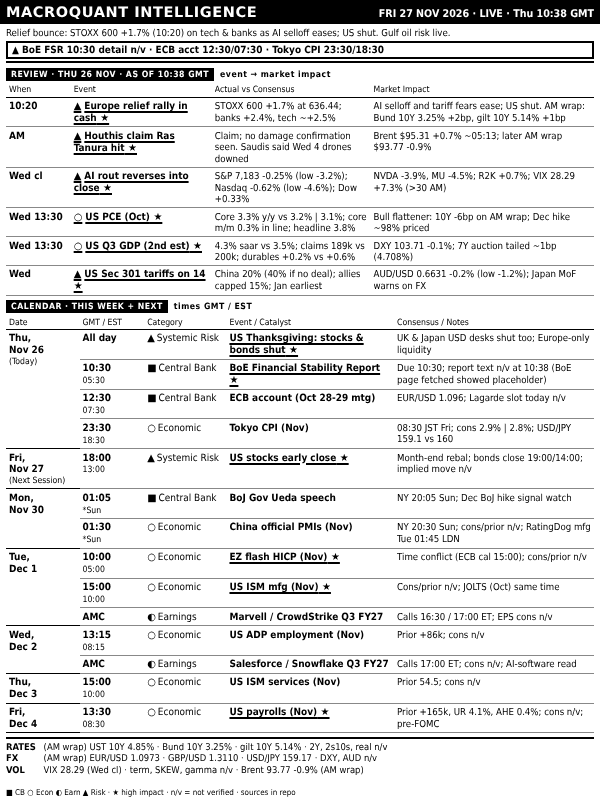
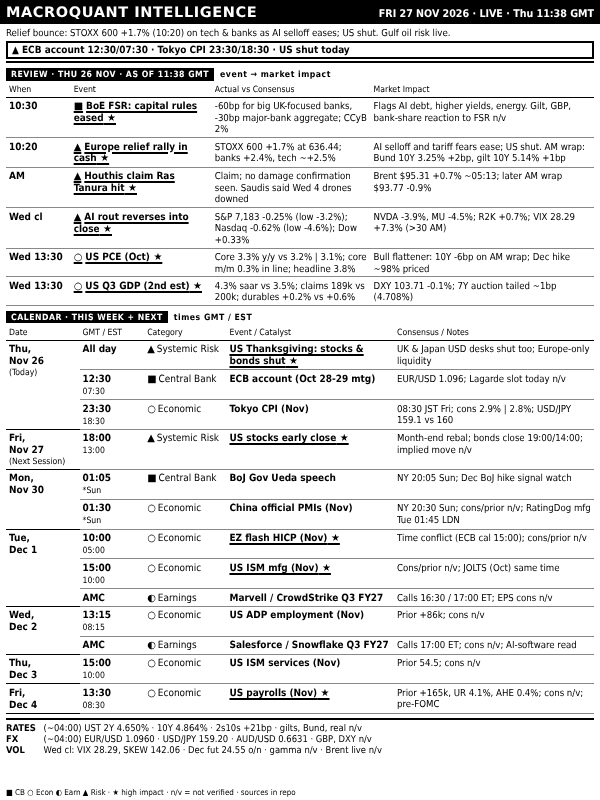
dashboard: FRI 27 NOV 2026 LIVE 11:38
Claude-Session: https://claude.ai/code/session_016SJqa7BD48d3tC7E6ek43r

diff --git a/out/dashboard.html b/out/dashboard.html
@@ -38,12 +38,12 @@ table.bd{border-collapse:collapse;width:100%;table-layout:fixed;margin-top:1px}
 </style></head><body>
 <div id="root">
  <div class="hdr"><span class="t">MACROQUANT INTELLIGENCE</span>
-  <span class="r">FRI 27 NOV 2026 · LIVE · Thu 10:38 GMT</span></div>
- <div class="ban"><div class="rg">Relief bounce: STOXX 600 +1.7% (10:20) on tech &amp; banks as AI selloff eases; US shut. Gulf oil risk live.</div><div class="al">▲ BoE FSR 10:30 detail n/v · ECB acct 12:30/07:30 · Tokyo CPI 23:30/18:30</div></div>
- <div class="sl"><span>REVIEW · THU 26 NOV · AS OF 10:38 GMT</span>event → market impact</div><table class="bd rv"><colgroup><col style="width:11%"><col style="width:24%"><col style="width:27%"><col></colgroup><tr><th>When</th><th>Event</th><th>Actual vs Consensus</th><th>Market Impact</th></tr><tr class="h"><td class="tm"><b>10:20</b></td><td class="ev"><i>▲</i>Europe relief rally in cash</td><td class="ac">STOXX 600 +1.7% at 636.44; banks +2.4%, tech ~+2.5%</td><td class="nt">AI selloff and tariff fears ease; US shut. AM wrap: Bund 10Y 3.25% +2bp, gilt 10Y 5.14% +1bp</td></tr><tr class="h"><td class="tm"><b>AM</b></td><td class="ev"><i>▲</i>Houthis claim Ras Tanura hit</td><td class="ac">Claim; no damage confirmation seen. Saudis said Wed 4 drones downed</td><td class="nt">Brent $95.31 +0.7% ~05:13; later AM wrap $93.77 -0.9%</td></tr><tr class="h"><td class="tm"><b>Wed cl</b></td><td class="ev"><i>▲</i>AI rout reverses into close</td><td class="ac">S&amp;P 7,183 -0.25% (low -3.2%); Nasdaq -0.62% (low -4.6%); Dow +0.33%</td><td class="nt">NVDA -3.9%, MU -4.5%; R2K +0.7%; VIX 28.29 +7.3% (&gt;30 AM)</td></tr><tr class="h"><td class="tm"><b>Wed 13:30</b></td><td class="ev"><i>○</i>US PCE (Oct)</td><td class="ac">Core 3.3% y/y vs 3.2% | 3.1%; core m/m 0.3% in line; headline 3.8%</td><td class="nt">Bull flattener: 10Y -6bp on AM wrap; Dec hike ~98% priced</td></tr><tr class="h"><td class="tm"><b>Wed 13:30</b></td><td class="ev"><i>○</i>US Q3 GDP (2nd est)</td><td class="ac">4.3% saar vs 3.5%; claims 189k vs 200k; durables +0.2% vs +0.6%</td><td class="nt">DXY 103.71 -0.1%; 7Y auction tailed ~1bp (4.708%)</td></tr><tr class="h"><td class="tm"><b>Wed</b></td><td class="ev"><i>▲</i>US Sec 301 tariffs on 14</td><td class="ac">China 20% (40% if no deal); allies capped 15%; Jan earliest</td><td class="nt">AUD/USD 0.6631 -0.2% (low -1.2%); Japan MoF warns on FX</td></tr></table>
+  <span class="r">FRI 27 NOV 2026 · LIVE · Thu 11:38 GMT</span></div>
+ <div class="ban"><div class="rg">Relief bounce: STOXX 600 +1.7% (10:20) on tech &amp; banks as AI selloff eases; US shut. Gulf oil risk live.</div><div class="al">▲ ECB account 12:30/07:30 · Tokyo CPI 23:30/18:30 · US shut today</div></div>
+ <div class="sl"><span>REVIEW · THU 26 NOV · AS OF 11:38 GMT</span>event → market impact</div><table class="bd rv"><colgroup><col style="width:11%"><col style="width:24%"><col style="width:27%"><col></colgroup><tr><th>When</th><th>Event</th><th>Actual vs Consensus</th><th>Market Impact</th></tr><tr class="h"><td class="tm"><b>10:30</b></td><td class="ev"><i>■</i>BoE FSR: capital rules eased</td><td class="ac">-60bp for big UK-focused banks, -30bp major-bank aggregate; CCyB 2%</td><td class="nt">Flags AI debt, higher yields, energy. Gilt, GBP, bank-share reaction to FSR n/v</td></tr><tr class="h"><td class="tm"><b>10:20</b></td><td class="ev"><i>▲</i>Europe relief rally in cash</td><td class="ac">STOXX 600 +1.7% at 636.44; banks +2.4%, tech ~+2.5%</td><td class="nt">AI selloff and tariff fears ease; US shut. AM wrap: Bund 10Y 3.25% +2bp, gilt 10Y 5.14% +1bp</td></tr><tr class="h"><td class="tm"><b>AM</b></td><td class="ev"><i>▲</i>Houthis claim Ras Tanura hit</td><td class="ac">Claim; no damage confirmation seen. Saudis said Wed 4 drones downed</td><td class="nt">Brent $95.31 +0.7% ~05:13; later AM wrap $93.77 -0.9%</td></tr><tr class="h"><td class="tm"><b>Wed cl</b></td><td class="ev"><i>▲</i>AI rout reverses into close</td><td class="ac">S&amp;P 7,183 -0.25% (low -3.2%); Nasdaq -0.62% (low -4.6%); Dow +0.33%</td><td class="nt">NVDA -3.9%, MU -4.5%; R2K +0.7%; VIX 28.29 +7.3% (&gt;30 AM)</td></tr><tr class="h"><td class="tm"><b>Wed 13:30</b></td><td class="ev"><i>○</i>US PCE (Oct)</td><td class="ac">Core 3.3% y/y vs 3.2% | 3.1%; core m/m 0.3% in line; headline 3.8%</td><td class="nt">Bull flattener: 10Y -6bp on AM wrap; Dec hike ~98% priced</td></tr><tr class="h"><td class="tm"><b>Wed 13:30</b></td><td class="ev"><i>○</i>US Q3 GDP (2nd est)</td><td class="ac">4.3% saar vs 3.5%; claims 189k vs 200k; durables +0.2% vs +0.6%</td><td class="nt">DXY 103.71 -0.1%; 7Y auction tailed ~1bp (4.708%)</td></tr></table>
  <div class="sl"><span>CALENDAR · THIS WEEK + NEXT</span>times GMT / EST</div>
- <table class="bd"><colgroup><col style="width:12.5%"><col style="width:11%"><col style="width:14%"><col style="width:28.5%"><col></colgroup><tr><th>Date</th><th>GMT / EST</th><th>Category</th><th>Event / Catalyst</th><th>Consensus / Notes</th></tr><tr class="g0 h"><td class="dt" rowspan="4">Thu,<br>Nov&nbsp;26<span class="tg">(Today)</span></td><td class="tm"><b>All day</b></td><td class="ct"><i>▲</i>Systemic Risk</td><td class="ev">US Thanksgiving: stocks &amp; bonds shut</td><td class="nt">UK &amp; Japan USD desks shut too; Europe-only liquidity</td></tr><tr class="h"><td class="tm"><b>10:30</b><span>05:30</span></td><td class="ct"><i>■</i>Central Bank</td><td class="ev">BoE Financial Stability Report</td><td class="nt">Due 10:30; report text n/v at 10:38 (BoE page fetched showed placeholder)</td></tr><tr class=""><td class="tm"><b>12:30</b><span>07:30</span></td><td class="ct"><i>■</i>Central Bank</td><td class="ev">ECB account (Oct 28-29 mtg)</td><td class="nt">EUR/USD 1.096; Lagarde slot today n/v</td></tr><tr class=""><td class="tm"><b>23:30</b><span>18:30</span></td><td class="ct"><i>○</i>Economic</td><td class="ev">Tokyo CPI (Nov)</td><td class="nt">08:30 JST Fri; cons 2.9% | 2.8%; USD/JPY 159.1 vs 160</td></tr><tr class="g0 h"><td class="dt" rowspan="1">Fri,<br>Nov&nbsp;27<span class="tg">(Next Session)</span></td><td class="tm"><b>18:00</b><span>13:00</span></td><td class="ct"><i>▲</i>Systemic Risk</td><td class="ev">US stocks early close</td><td class="nt">Month-end rebal; bonds close 19:00/14:00; implied move n/v</td></tr><tr class="g0"><td class="dt" rowspan="2">Mon,<br>Nov&nbsp;30</td><td class="tm"><b>01:05</b><span>*Sun</span></td><td class="ct"><i>■</i>Central Bank</td><td class="ev">BoJ Gov Ueda speech</td><td class="nt">NY 20:05 Sun; Dec BoJ hike signal watch</td></tr><tr class=""><td class="tm"><b>01:30</b><span>*Sun</span></td><td class="ct"><i>○</i>Economic</td><td class="ev">China official PMIs (Nov)</td><td class="nt">NY 20:30 Sun; cons/prior n/v; RatingDog mfg Tue 01:45 LDN</td></tr><tr class="g0 h"><td class="dt" rowspan="3">Tue,<br>Dec&nbsp;1</td><td class="tm"><b>10:00</b><span>05:00</span></td><td class="ct"><i>○</i>Economic</td><td class="ev">EZ flash HICP (Nov)</td><td class="nt">Time conflict (ECB cal 15:00); cons/prior n/v</td></tr><tr class="h"><td class="tm"><b>15:00</b><span>10:00</span></td><td class="ct"><i>○</i>Economic</td><td class="ev">US ISM mfg (Nov)</td><td class="nt">Cons/prior n/v; JOLTS (Oct) same time</td></tr><tr class=""><td class="tm"><b>AMC</b></td><td class="ct"><i>◐</i>Earnings</td><td class="ev">Marvell / CrowdStrike Q3 FY27</td><td class="nt">Calls 16:30 / 17:00 ET; EPS cons n/v</td></tr><tr class="g0"><td class="dt" rowspan="2">Wed,<br>Dec&nbsp;2</td><td class="tm"><b>13:15</b><span>08:15</span></td><td class="ct"><i>○</i>Economic</td><td class="ev">US ADP employment (Nov)</td><td class="nt">Prior +86k; cons n/v</td></tr><tr class=""><td class="tm"><b>AMC</b></td><td class="ct"><i>◐</i>Earnings</td><td class="ev">Salesforce / Snowflake Q3 FY27</td><td class="nt">Calls 17:00 ET; cons n/v; AI-software read</td></tr><tr class="g0"><td class="dt" rowspan="1">Thu,<br>Dec&nbsp;3</td><td class="tm"><b>15:00</b><span>10:00</span></td><td class="ct"><i>○</i>Economic</td><td class="ev">US ISM services (Nov)</td><td class="nt">Prior 54.5; cons n/v</td></tr><tr class="g0 h"><td class="dt" rowspan="1">Fri,<br>Dec&nbsp;4</td><td class="tm"><b>13:30</b><span>08:30</span></td><td class="ct"><i>○</i>Economic</td><td class="ev">US payrolls (Nov)</td><td class="nt">Prior +165k, UR 4.1%, AHE 0.4%; cons n/v; pre-FOMC</td></tr></table>
- <div class="lv"><div><b>RATES</b>(AM wrap) UST 10Y 4.85% · Bund 10Y 3.25% · gilt 10Y 5.14% · 2Y, 2s10s, real n/v</div><div><b>FX</b>(AM wrap) EUR/USD 1.0973 · GBP/USD 1.3110 · USD/JPY 159.17 · DXY, AUD n/v</div><div><b>VOL</b>VIX 28.29 (Wed cl) · term, SKEW, gamma n/v · Brent 93.77 -0.9% (AM wrap)</div></div>
+ <table class="bd"><colgroup><col style="width:12.5%"><col style="width:11%"><col style="width:14%"><col style="width:28.5%"><col></colgroup><tr><th>Date</th><th>GMT / EST</th><th>Category</th><th>Event / Catalyst</th><th>Consensus / Notes</th></tr><tr class="g0 h"><td class="dt" rowspan="3">Thu,<br>Nov&nbsp;26<span class="tg">(Today)</span></td><td class="tm"><b>All day</b></td><td class="ct"><i>▲</i>Systemic Risk</td><td class="ev">US Thanksgiving: stocks &amp; bonds shut</td><td class="nt">UK &amp; Japan USD desks shut too; Europe-only liquidity</td></tr><tr class=""><td class="tm"><b>12:30</b><span>07:30</span></td><td class="ct"><i>■</i>Central Bank</td><td class="ev">ECB account (Oct 28-29 mtg)</td><td class="nt">EUR/USD 1.096; Lagarde slot today n/v</td></tr><tr class=""><td class="tm"><b>23:30</b><span>18:30</span></td><td class="ct"><i>○</i>Economic</td><td class="ev">Tokyo CPI (Nov)</td><td class="nt">08:30 JST Fri; cons 2.9% | 2.8%; USD/JPY 159.1 vs 160</td></tr><tr class="g0 h"><td class="dt" rowspan="1">Fri,<br>Nov&nbsp;27<span class="tg">(Next Session)</span></td><td class="tm"><b>18:00</b><span>13:00</span></td><td class="ct"><i>▲</i>Systemic Risk</td><td class="ev">US stocks early close</td><td class="nt">Month-end rebal; bonds close 19:00/14:00; implied move n/v</td></tr><tr class="g0"><td class="dt" rowspan="2">Mon,<br>Nov&nbsp;30</td><td class="tm"><b>01:05</b><span>*Sun</span></td><td class="ct"><i>■</i>Central Bank</td><td class="ev">BoJ Gov Ueda speech</td><td class="nt">NY 20:05 Sun; Dec BoJ hike signal watch</td></tr><tr class=""><td class="tm"><b>01:30</b><span>*Sun</span></td><td class="ct"><i>○</i>Economic</td><td class="ev">China official PMIs (Nov)</td><td class="nt">NY 20:30 Sun; cons/prior n/v; RatingDog mfg Tue 01:45 LDN</td></tr><tr class="g0 h"><td class="dt" rowspan="3">Tue,<br>Dec&nbsp;1</td><td class="tm"><b>10:00</b><span>05:00</span></td><td class="ct"><i>○</i>Economic</td><td class="ev">EZ flash HICP (Nov)</td><td class="nt">Time conflict (ECB cal 15:00); cons/prior n/v</td></tr><tr class="h"><td class="tm"><b>15:00</b><span>10:00</span></td><td class="ct"><i>○</i>Economic</td><td class="ev">US ISM mfg (Nov)</td><td class="nt">Cons/prior n/v; JOLTS (Oct) same time</td></tr><tr class=""><td class="tm"><b>AMC</b></td><td class="ct"><i>◐</i>Earnings</td><td class="ev">Marvell / CrowdStrike Q3 FY27</td><td class="nt">Calls 16:30 / 17:00 ET; EPS cons n/v</td></tr><tr class="g0"><td class="dt" rowspan="2">Wed,<br>Dec&nbsp;2</td><td class="tm"><b>13:15</b><span>08:15</span></td><td class="ct"><i>○</i>Economic</td><td class="ev">US ADP employment (Nov)</td><td class="nt">Prior +86k; cons n/v</td></tr><tr class=""><td class="tm"><b>AMC</b></td><td class="ct"><i>◐</i>Earnings</td><td class="ev">Salesforce / Snowflake Q3 FY27</td><td class="nt">Calls 17:00 ET; cons n/v; AI-software read</td></tr><tr class="g0"><td class="dt" rowspan="1">Thu,<br>Dec&nbsp;3</td><td class="tm"><b>15:00</b><span>10:00</span></td><td class="ct"><i>○</i>Economic</td><td class="ev">US ISM services (Nov)</td><td class="nt">Prior 54.5; cons n/v</td></tr><tr class="g0 h"><td class="dt" rowspan="1">Fri,<br>Dec&nbsp;4</td><td class="tm"><b>13:30</b><span>08:30</span></td><td class="ct"><i>○</i>Economic</td><td class="ev">US payrolls (Nov)</td><td class="nt">Prior +165k, UR 4.1%, AHE 0.4%; cons n/v; pre-FOMC</td></tr></table>
+ <div class="lv"><div><b>RATES</b>(~04:00) UST 2Y 4.650% · 10Y 4.864% · 2s10s +21bp · gilts, Bund, real n/v</div><div><b>FX</b>(~04:00) EUR/USD 1.0960 · USD/JPY 159.20 · AUD/USD 0.6631 · GBP, DXY n/v</div><div><b>VOL</b>Wed cl: VIX 28.29, SKEW 142.06 · Dec fut 24.55 o/n · gamma n/v · Brent live n/v</div></div>
 </div>
 <div class="foot">■ CB ○ Econ ◐ Earn ▲ Risk · ★ high impact · n/v = not verified · sources in repo</div>
 </body></html>
